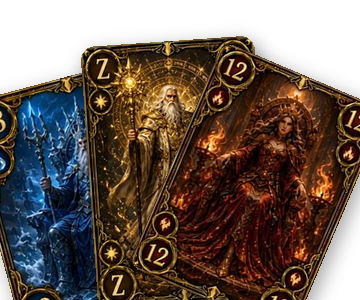
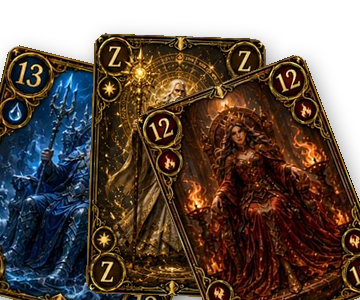
Elemente-Kachel: Faecher einwaerts gekippt wie Standard
Per Raster-Analyse von deck-standard.png: die Randkarten kippen dort
EINWAERTS (links: Oberkante nach rechts, Unterkante ragt links raus;
rechts: Oberkante nach links, Unterkante ragt rechts raus). Die
Elemente-Kachel war auswaerts gefaechert (wie eine Handhaltung) und
wirkte dadurch spiegelverkehrt. Winkel jetzt: links -14, Mitte -2,
rechts +21 Grad; z-Reihenfolge unveraendert (rote 12 vorne).
cat-img ?v=4, app v121.

Claude-Session: https://claude.ai/code/session_01MGnrpYm1rjF2AQZegA46XA

diff --git a/app.js b/app.js
@@ -763,7 +763,7 @@ function shopCatalogTile(it, owned) {
     state = `<span class="tile-state owned">✓ Im Besitz</span>`;
   }
 
-  const thumb = `<img class="cat-img" src="${esc(it.img)}?v=3" alt="" loading="lazy">`;
+  const thumb = `<img class="cat-img" src="${esc(it.img)}?v=4" alt="" loading="lazy">`;
   return `<div class="cat-tile${active ? ' is-active' : ''}" data-kind="${esc(it.kind)}" data-rar="${esc(it.rarity)}" style="--r:${r.color}">
     <div class="cat-thumb">${thumb}</div>
     <div class="cat-name">${esc(it.name)}</div>

diff --git a/index.html b/index.html
@@ -2001,6 +2001,6 @@
   window.addEventListener('pagehide', () => { dropFocus(); armInputs(); });
   window.addEventListener('pageshow', () => { dropFocus(); window.scrollTo(0, 0); });
 </script>
-<script type="module" src="./app.js?v=120"></script>
+<script type="module" src="./app.js?v=121"></script>
 </body>
 </html>
